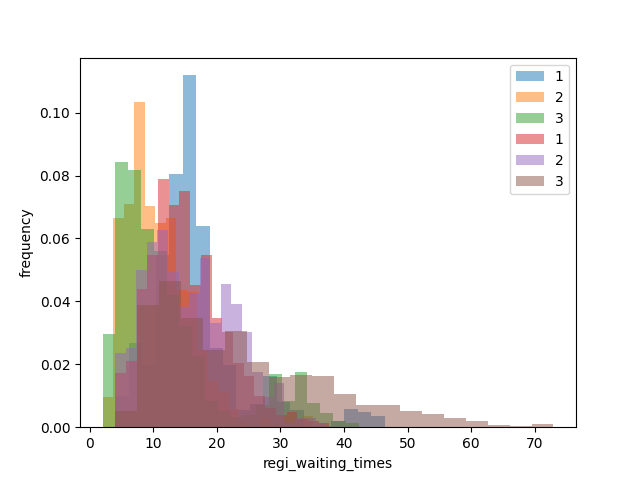
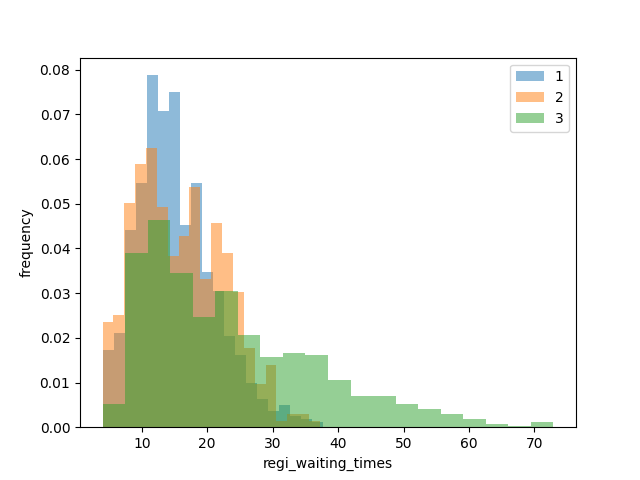
fix duplace

diff --git a/analyzer.py b/analyzer.py
@@ -228,7 +228,9 @@ def draw_bar_waiting_time_histogram(
     # y軸はリスト内の要素の数ではなく,0-1の間で正規化したリスト内頻度
 
     for key, value in data_dict.items():
-        plt.hist(value, bins=20, alpha=0.5, label=key, density=True)
+        plt.hist(
+            value["bar_waiting_times"], bins=20, alpha=0.5, label=key, density=True
+        )
     plt.xlabel("bar_waiting_times")
     plt.ylabel("frequency")
     plt.legend()
@@ -242,6 +244,8 @@ def draw_regi_waiting_time_histogram(
     # data_dictのキーごとに色分けし、分布図を描画
     # data_dictのvalueはリスト。
     # y軸はリスト内の要素の数ではなく,0-1の間で正規化したリスト内頻度
+
+    plt.clf()
 
     for key, value in data_dict.items():
         plt.hist(value, bins=20, alpha=0.5, label=key, density=True)
@@ -315,13 +319,7 @@ def main():
                     value
                 )  # dict, list以外の場合はappend
 
-    draw_bar_waiting_time_histogram(
-        {
-            "1": analyzed_per_discretion_level["1"]["bar_waiting_times"],
-            "2": analyzed_per_discretion_level["2"]["bar_waiting_times"],
-            "3": analyzed_per_discretion_level["3"]["bar_waiting_times"],
-        }
-    )
+    draw_bar_waiting_time_histogram(analyzed_per_discretion_level)
 
     draw_regi_waiting_time_histogram(
         {
@@ -330,7 +328,6 @@ def main():
             "3": analyzed_per_discretion_level["3"]["regi_waiting_times"],
         }
     )
-
 
     # discretion_level = 1 の人のレジ待ち時間の平均
     print(np.mean(analyzed_per_discretion_level["1"]["regi_waiting_times"]))
